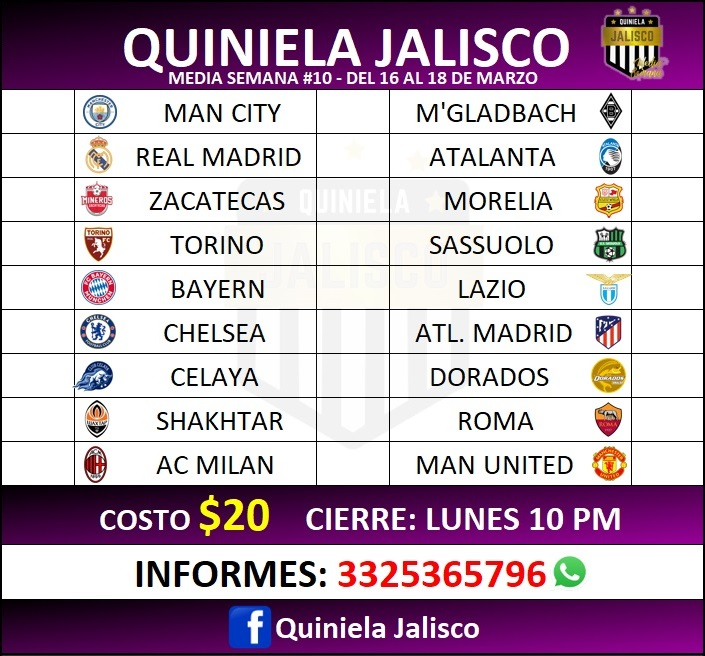
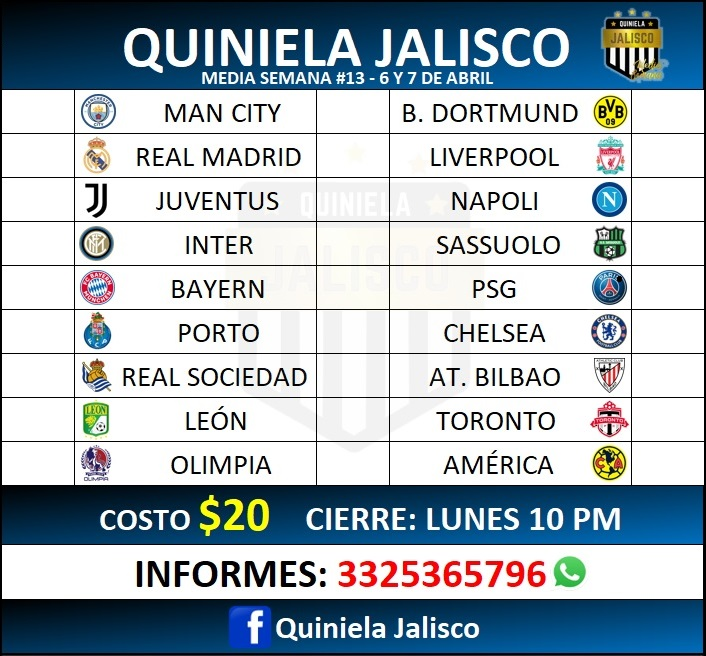
Version 35.2

diff --git a/MediaSemana/stylesm.css b/MediaSemana/stylesm.css
@@ -7,7 +7,7 @@
 
 .quiniela{
     margin: auto;
-    background-image: url("https://scontent.fgdl9-1.fna.fbcdn.net/v/t1.15752-9/160163348_291709362377189_5818953306028226026_n.png?_nc_cat=103&ccb=1-3&_nc_sid=ae9488&_nc_eui2=AeH462SdDxNBfsoukthfb1lUFKvRcjSrRB4Uq9FyNKtEHshCTUELkWUf5cb4H5lCN6K5UDZkRZx_c0Lince4dh1B&_nc_ohc=gqdLlVmNP-sAX-9yX3g&_nc_ht=scontent.fgdl9-1.fna&oh=66b4d1d7b09d7005ae476ae2def0b195&oe=607239B6");
+    background-image: url("quinielam.jpg");
     background-size: 100%;
     background-repeat: no-repeat;
     max-width: 400px;
@@ -74,7 +74,7 @@ body{
     max-width: 400px;
     margin: auto;
     background-color: rgb(6,12,37);
-    background-image: url("https://scontent.fgdl9-1.fna.fbcdn.net/v/t1.15752-9/137283536_890356291793865_5108326858837343769_n.png?_nc_cat=107&ccb=3&_nc_sid=ae9488&_nc_eui2=AeEVKOLwdlbfAQLE3wpKkw--NTZzkTmIhec1NnOROYiF52Z-FCynEkgjFoY4PEj0WQs0C0rXLHiKzTDucUCh8lwj&_nc_ohc=tQyjqhJUzo8AX8S-PFG&_nc_ht=scontent.fgdl9-1.fna&oh=287d178e9b7390d79f3bd4d9af1cb954&oe=60624C53");
+    background-image: url("fondom.jpg");
     background-repeat: repeat-y;
     background-position: top;
 }
@@ -89,8 +89,8 @@ h1{
     margin-top: 8%;
     border: solid 1px black;
     border-radius: 0 0 14px 14px;
-    background: -webkit-linear-gradient(0.04turn, rgb(0,0,0)  ,rgb(149,0,146) 80%);
-    background: linear-gradient(0.04turn, rgb(0,0,0)  ,rgb(149,0,146) 80%);
+    background: -webkit-linear-gradient(0.04turn, rgb(0,0,0)  ,rgb(0,103,178) 80%);
+    background: linear-gradient(0.04turn, rgb(0,0,0)  ,rgb(0,103,178) 80%);
     font-size: x-large;
 }
 
@@ -179,12 +179,12 @@ h2,h3{
     transition:background-color 0.3s ease;
 }
 
-#undo{
+/*#undo{
     float: right;
     background:  linear-gradient(0,  rgb(250, 200, 200) 20%, rgb(255, 255, 255) 90%);
     border-radius: 4px;
     padding: 2px;
-}
+}*/
 
 
 p{

diff --git a/styles.css b/styles.css
@@ -177,12 +177,12 @@ h2,h3{
     transition:background-color 0.3s ease;
 }
 
-#undo{
+/*#undo{
     float: right;
     background:  linear-gradient(0,  rgb(250, 200, 200) 20%, rgb(255, 255, 255) 90%);
     border-radius: 4px;
     padding: 2px;
-}
+}*/
 
 
 p{
